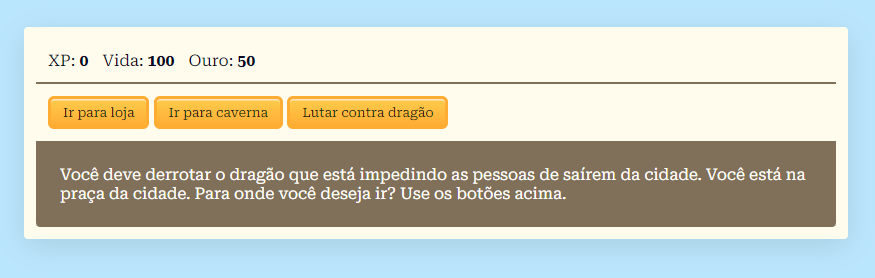
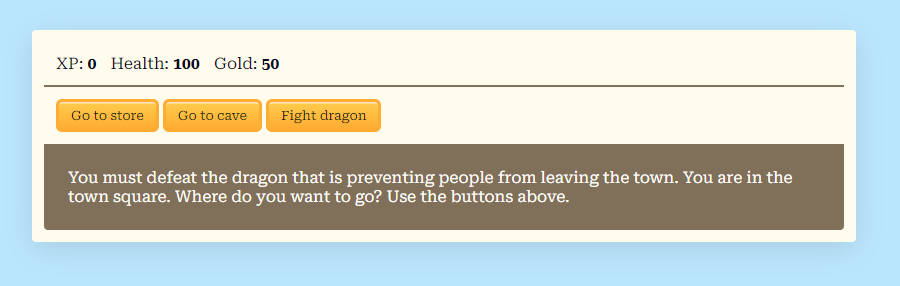
pt to en

Changed region(s): [[0.0, 0.0863, 0.9874, 0.8633]]

diff --git a/script.js b/script.js
@@ -17,24 +17,24 @@ const monsterStats = document.querySelector("#monsterStats");
 const monsterName = document.querySelector("#monsterName");
 const monsterHealthText = document.querySelector("#monsterHealth");
 const weapons = [
-  { name: "Bastão", power: 5 },
-  { name: "Adaga", power: 30 },
-  { name: "Marreta", power: 50 },
-  { name: "Espada", power: 100 },
+  { name: "stick", power: 5 },
+  { name: "dagger", power: 30 },
+  { name: "claw hammer", power: 50 },
+  { name: "sword", power: 100 },
 ];
 const monsters = [
   {
-    name: "Slime",
+    name: "slime",
     level: 2,
     health: 15,
   },
   {
-    name: "Besta Feroz",
+    name: "fanged beast",
     level: 8,
     health: 60,
   },
   {
-    name: "Dragão",
+    name: "dragon",
     level: 20,
     health: 300,
   },
@@ -42,57 +42,59 @@ const monsters = [
 const locations = [
   {
     name: "town square",
-    "button text": ["Ir para loja", "Ir para caverna", "Lutar contra o dragão"],
+    "button text": ["Go to store", "Go to cave", "Fight dragon"],
     "button functions": [goStore, goCave, fightDragon],
-    text: 'Você está na praça da cidade. Você vê uma placa que diz "Loja".',
+    text: 'You are in the town square. You see a sign that says "Store".',
   },
   {
     name: "store",
     "button text": [
-      "Comprar 10 de vida (10 de ouro)",
-      "Comprar arma (30 de ouro)",
-      "Ir para praça da cidade",
+      "Buy 10 health (10 gold)",
+      "Buy weapon (30 gold)",
+      "Go to town square",
     ],
     "button functions": [buyHealth, buyWeapon, goTown],
-    text: "Você entra na loja.",
+    text: "You enter the store.",
   },
   {
     name: "cave",
-    "button text": [
-      "Lutar contra slime",
-      "Lutar contra besta feroz",
-      "Ir para praça da cidade",
-    ],
+    "button text": ["Fight slime", "Fight fanged beast", "Go to town square"],
     "button functions": [fightSlime, fightBeast, goTown],
-    text: "Você entra na caverna. Você vê alguns monstros.",
+    text: "You enter the cave. You see some monsters.",
   },
   {
     name: "fight",
-    "button text": ["Atacar", "Esquivar", "Correr"],
+    "button text": ["Attack", "Dodge", "Run"],
     "button functions": [attack, dodge, goTown],
-    text: "Você está lutando contra um monstro.",
+    text: "You are fighting a monster.",
   },
   {
     name: "kill monster",
     "button text": [
-      "Ir para praça da cidade",
-      "Ir para praça da cidade",
-      "Ir para praça da cidade",
+      "Go to town square",
+      "Go to town square",
+      "Go to town square",
     ],
-    "button functions": [goTown, goTown, goTown],
-    text: 'O monstro grita "Arg!" enquanto morre. Você ganha pontos de experiência e encontra moedas.',
+    "button functions": [goTown, goTown, easterEgg],
+    text: 'The monster screams "Arg!" as it dies. You gain experience points and find gold.',
   },
   {
     name: "lose",
     "button text": ["REPLAY?", "REPLAY?", "REPLAY?"],
     "button functions": [restart, restart, restart],
-    text: "Você morre. ☠",
+    text: "You die. &#x2620;",
   },
   {
     name: "win",
     "button text": ["REPLAY?", "REPLAY?", "REPLAY?"],
     "button functions": [restart, restart, restart],
-    text: "Você derrota o dragão! VOCÊ VENCE O JOGO! 🎉",
+    text: "You defeat the dragon! YOU WIN THE GAME! &#x1F389;",
+  },
+  {
+    name: "easter egg",
+    "button text": ["2", "8", "Go to town square?"],
+    "button functions": [pickTwo, pickEight, goTown],
+    text: "You find a secret game. Pick a number above. Ten numbers will be randomly chosen between 0 and 10. If the number you choose matches one of the random numbers, you win!",
   },
 ];
 
@@ -131,7 +133,7 @@ function buyHealth() {
     goldText.innerText = gold;
     healthText.innerText = health;
   } else {
-    text.innerText = "Você não tem ouro suficiente para comprar vida.";
+    text.innerText = "You do not have enough gold to buy health.";
   }
 }
 
@@ -142,15 +144,15 @@ function buyWeapon() {
       currentWeapon++;
       goldText.innerText = gold;
       let newWeapon = weapons[currentWeapon].name;
-      text.innerText = `Agora você tem um(a) ${newWeapon}.`;
+      text.innerText = "You now have a " + newWeapon + ".";
       inventory.push(newWeapon);
-      text.innerText += ` No seu inventário você tem: ${inventory}`;
+      text.innerText += " In your inventory you have: " + inventory;
     } else {
-      text.innerText = "Você não tem ouro suficiente para comprar uma arma.";
+      text.innerText = "You do not have enough gold to buy a weapon.";
     }
   } else {
-    text.innerText = "Você já tem a arma mais poderosa!";
-    button2.innerText = "Vender arma por 15 de ouro";
+    text.innerText = "You already have the most powerful weapon!";
+    button2.innerText = "Sell weapon for 15 gold";
     button2.onclick = sellWeapon;
   }
 }
@@ -160,10 +162,10 @@ function sellWeapon() {
     gold += 15;
     goldText.innerText = gold;
     let currentWeapon = inventory.shift();
-    text.innerText = `Você vendeu um(a) ${currentWeapon}.`;
-    text.innerText += ` No seu inventário você tem: ${inventory}`;
+    text.innerText = "You sold a " + currentWeapon + ".";
+    text.innerText += " In your inventory you have: " + inventory;
   } else {
-    text.innerText = "Não venda sua única arma!";
+    text.innerText = "Don't sell your only weapon!";
   }
 }
 
@@ -191,18 +193,15 @@ function goFight() {
 }
 
 function attack() {
-  fighting === 1
-    ? (text.innerText = `A ${monsters[fighting].name} ataca.`)
-    : (text.innerText = `O ${monsters[fighting].name} ataca.`);
-  currentWeapon === 0
-    ? (text.innerText += ` Você ataca com seu ${weapons[currentWeapon].name}.`)
-    : (text.innerText += ` Você ataca com sua ${weapons[currentWeapon].name}.`);
+  text.innerText = "The " + monsters[fighting].name + " attacks.";
+  text.innerText +=
+    " You attack it with your " + weapons[currentWeapon].name + ".";
   health -= getMonsterAttackValue(monsters[fighting].level);
   if (isMonsterHit()) {
     monsterHealth -=
       weapons[currentWeapon].power + Math.floor(Math.random() * xp) + 1;
   } else {
-    text.innerText += " Você erra.";
+    text.innerText += " You miss.";
   }
   healthText.innerText = health;
   monsterHealthText.innerText = monsterHealth;
@@ -216,7 +215,7 @@ function attack() {
     }
   }
   if (Math.random() <= 0.1 && inventory.length !== 1) {
-    text.innerText += ` Sua ${inventory.pop()} quebra.`;
+    text.innerText += " Your " + inventory.pop() + " breaks.";
     currentWeapon--;
   }
 }
@@ -232,9 +231,7 @@ function isMonsterHit() {
 }
 
 function dodge() {
-  fighting === 1
-    ? (text.innerText = `Você esquiva do ataque da ${monsters[fighting].name}`)
-    : (text.innerText = `Você esquiva do ataque do ${monsters[fighting].name}`);
+  text.innerText = "You dodge the attack from the " + monsters[fighting].name;
 }
 
 function defeatMonster() {
@@ -258,7 +255,7 @@ function restart() {
   health = 100;
   gold = 50;
   currentWeapon = 0;
-  inventory = ["bastão"];
+  inventory = ["stick"];
   goldText.innerText = gold;
   healthText.innerText = health;
   xpText.innerText = xp;
@@ -282,16 +279,16 @@ function pick(guess) {
   while (numbers.length < 10) {
     numbers.push(Math.floor(Math.random() * 11));
   }
-  text.innerText = `Você escolheu ${guess}. Aqui estão os números aleatórios: \n`;
+  text.innerText = "You picked " + guess + ". Here are the random numbers:\n";
   for (let i = 0; i < 10; i++) {
     text.innerText += numbers[i] + "\n";
   }
   if (numbers.includes(guess)) {
-    text.innerText += "Correto! Você ganhou 20 de ouro!";
+    text.innerText += "Right! You win 20 gold!";
     gold += 20;
     goldText.innerText = gold;
   } else {
-    text.innerText += "Errado! Você perdeu 10 de vida!";
+    text.innerText += "Wrong! You lose 10 health!";
     health -= 10;
     healthText.innerText = health;
     if (health <= 0) {

diff --git a/index.html b/index.html
@@ -4,28 +4,28 @@
 <head>
     <meta charset="utf-8">
     <link rel="stylesheet" href="./style.css">
-    <title>Mini RPG</title>
+    <title>RPG - Dragon Repeller</title>
 </head>
 
 <body>
     <div id="game">
         <div id="stats">
             <span class="stat">XP: <strong><span id="xpText">0</span></strong></span>
-            <span class="stat">Vida: <strong><span id="healthText">100</span></strong></span>
-            <span class="stat">Ouro: <strong><span id="goldText">50</span></strong></span>
+            <span class="stat">Health: <strong><span id="healthText">100</span></strong></span>
+            <span class="stat">Gold: <strong><span id="goldText">50</span></strong></span>
         </div>
         <div id="controls">
-            <button id="button1">Ir para loja</button>
-            <button id="button2">Ir para caverna</button>
-            <button id="button3">Lutar contra dragão</button>
+            <button id="button1">Go to store</button>
+            <button id="button2">Go to cave</button>
+            <button id="button3">Fight dragon</button>
         </div>
         <div id="monsterStats">
-            <span class="stat">Nome do Monstro: <strong><span id="monsterName"></span></strong></span>
-            <span class="stat">Vida: <strong><span id="monsterHealth"></span></strong></span>
+            <span class="stat">Monster Name: <strong><span id="monsterName"></span></strong></span>
+            <span class="stat">Health: <strong><span id="monsterHealth"></span></strong></span>
         </div>
         <div id="text">
-            Você deve derrotar o dragão que está impedindo as pessoas de saírem da cidade. Você
-            está na praça da cidade. Para onde você deseja ir? Use os botões acima.
+            You must defeat the dragon that is preventing people from leaving the town. You
+            are in the town square. Where do you want to go? Use the buttons above.
         </div>
     </div>
     <script src="./script.js"></script>
